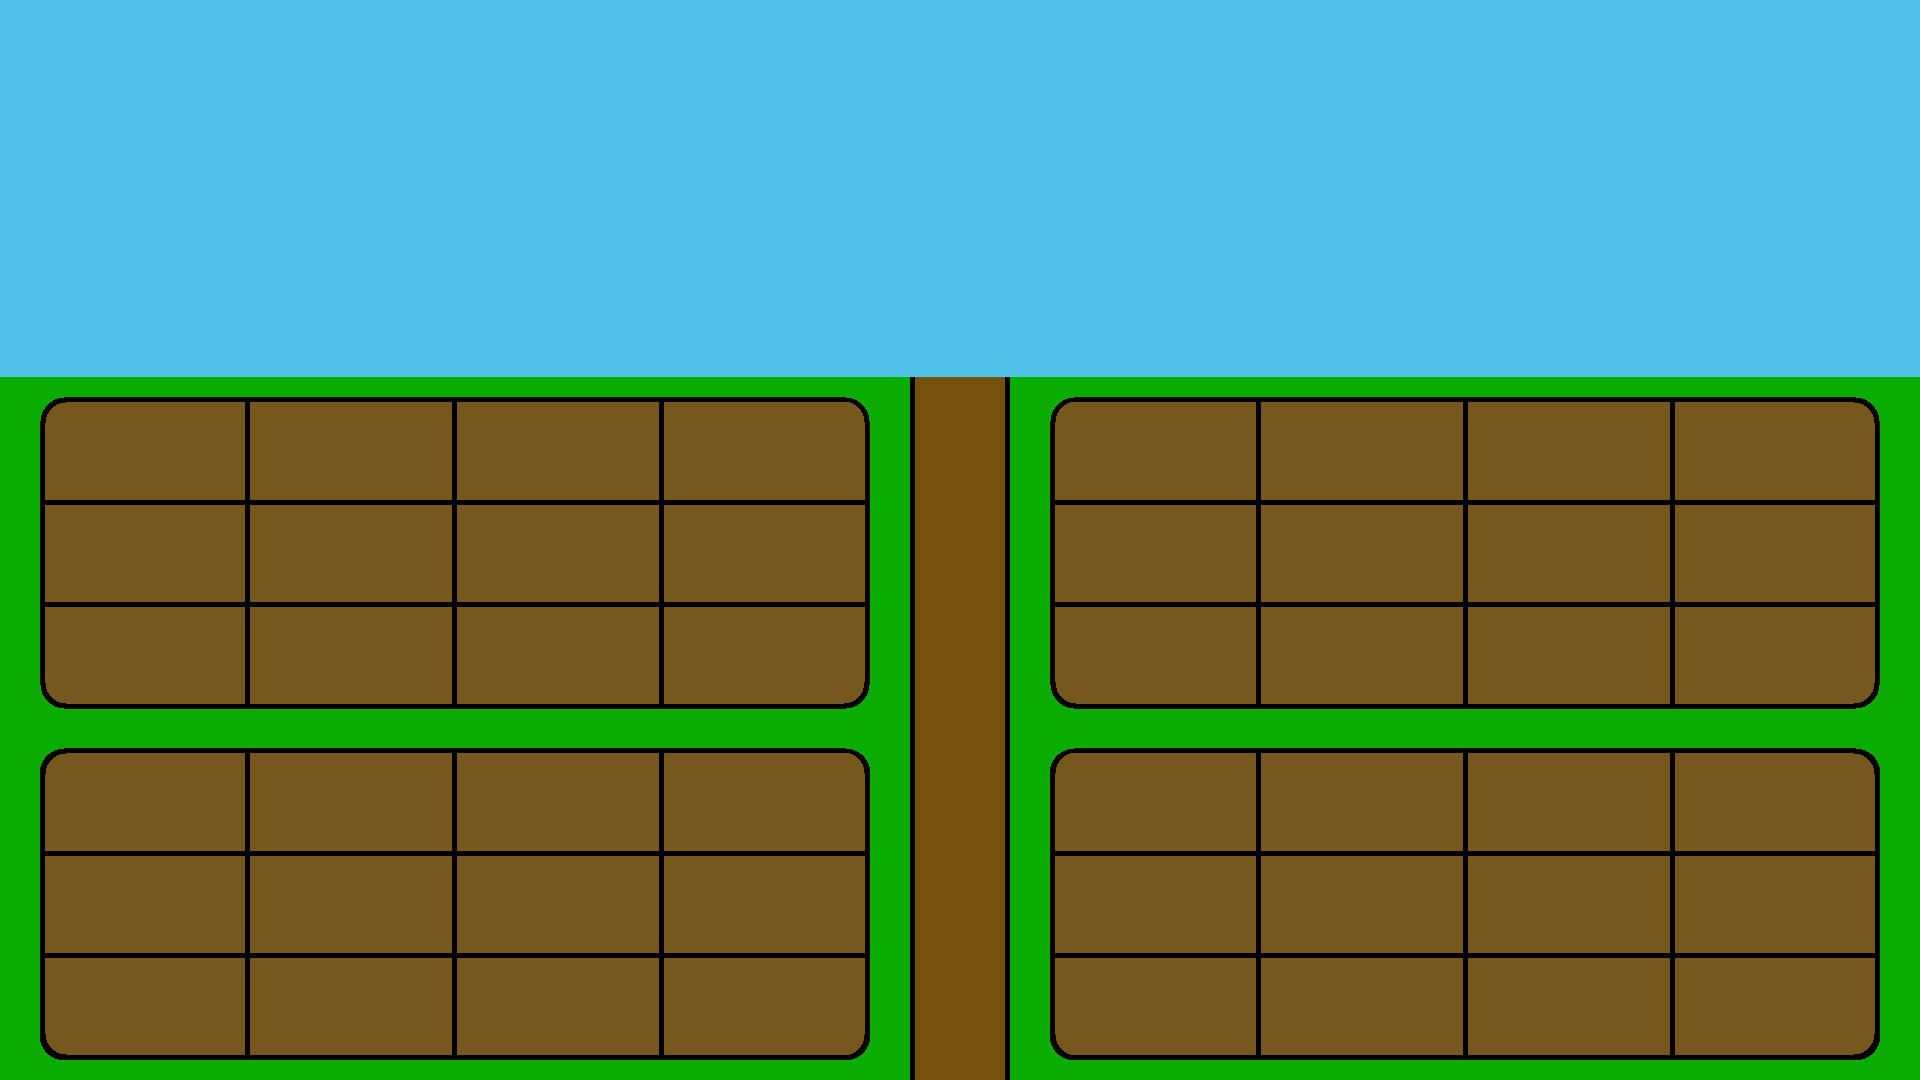
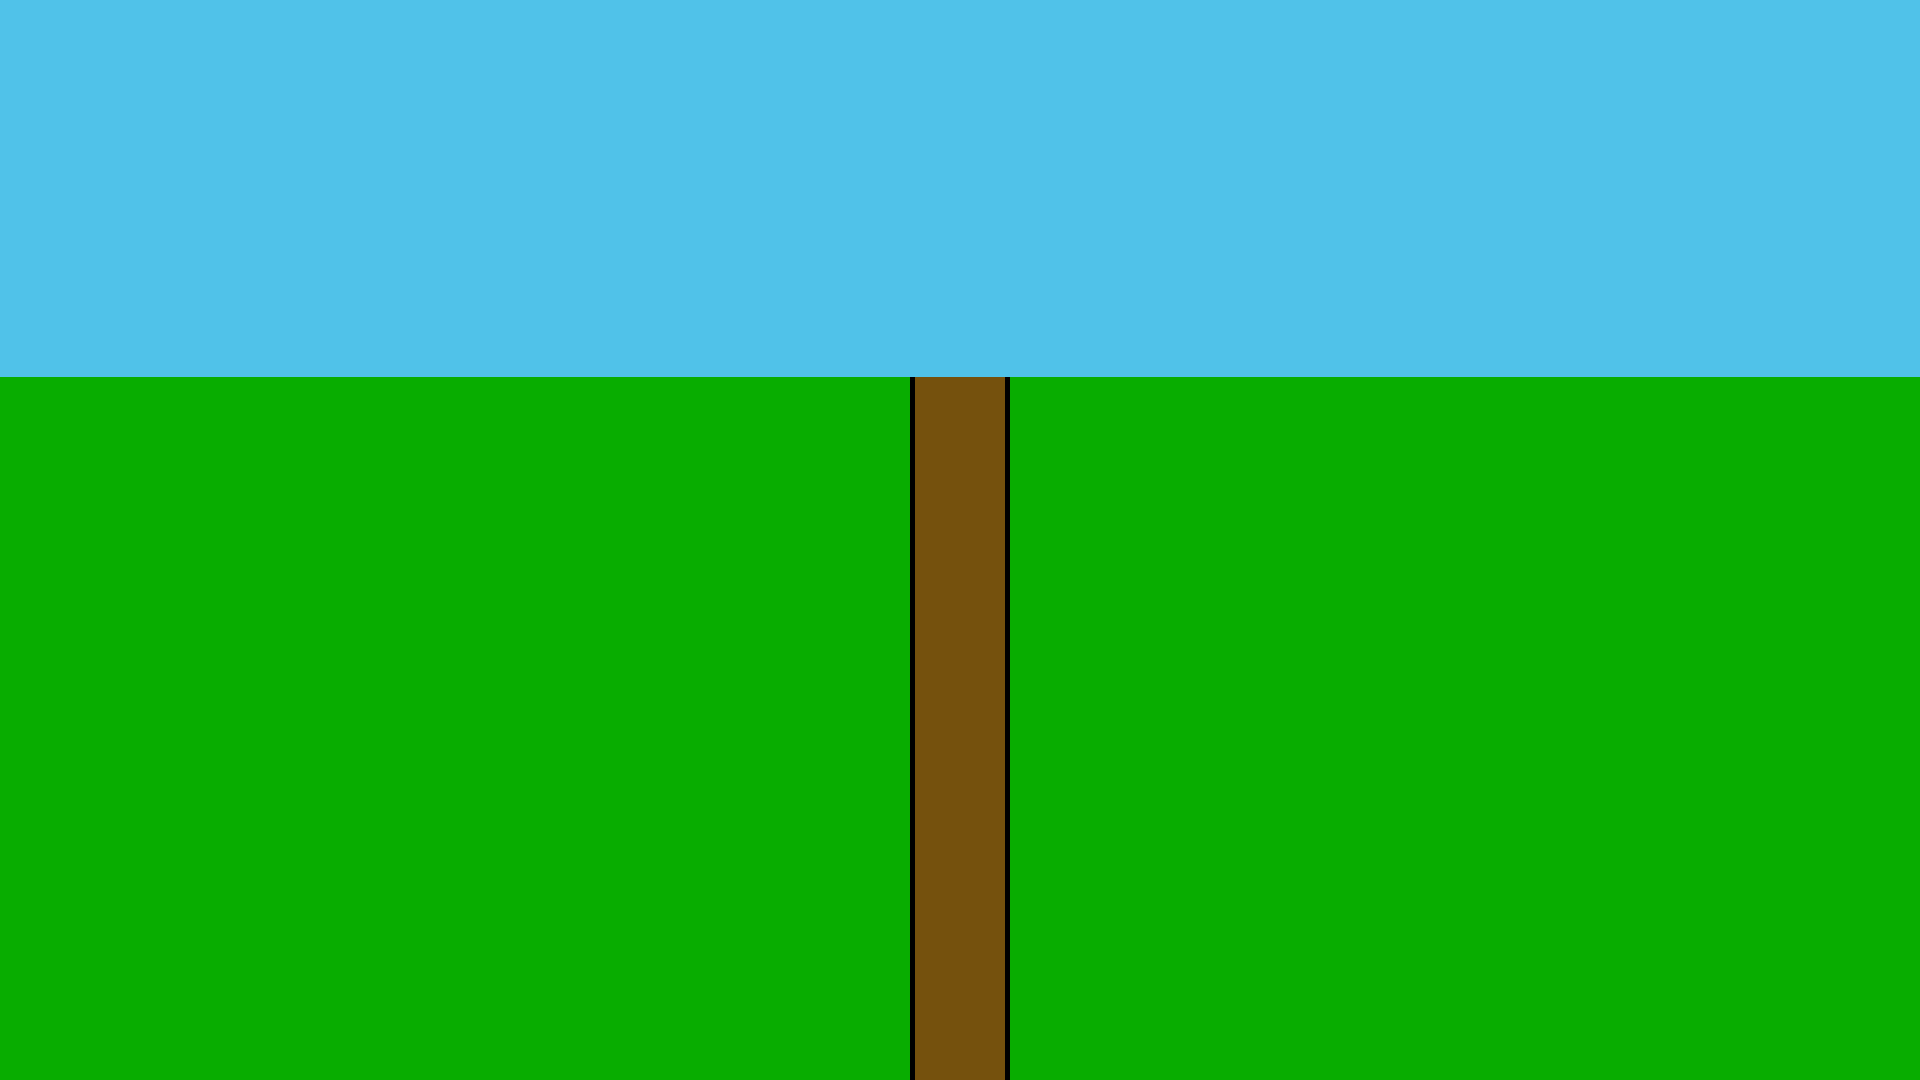
Fix Farm miniatures (redo as buttons)

diff --git a/FarmerGraphics/SceneHandlers.cs b/FarmerGraphics/SceneHandlers.cs
@@ -80,7 +80,7 @@ namespace FarmerGraphics
     [System.Runtime.Versioning.SupportedOSPlatform("windows")]
     public class MainSceneHandler : SceneHandler
     {
-        private List<ProportionalRectangle> farmCoords;
+        private List<SceneSwitchButton> farmMiniatures = new(4);
 
         private SceneSwitchButton ArrowButton;
         private SceneSwitchButton HouseButton;
@@ -92,15 +92,22 @@ namespace FarmerGraphics
             Background = new Bitmap("Assets\\Farmer-even.png");
 
             // Initialize farm interaction areas
-            farmCoords = new List<ProportionalRectangle>();
-            double[] XBounds = { 0.02, 0.45, 0.54, 0.98 };
-            double[] YBounds = { 0.37, 0.66, 0.70, 0.98 };
+            double[] XBounds = { 0.02, 0.455, 0.547, 0.98 };
+            double[] YBounds = { 0.368, 0.66, 0.694, 0.984 };
 
-            farmCoords.Add(new ProportionalRectangle(XBounds[0], XBounds[1], YBounds[0], YBounds[1]));
-            farmCoords.Add(new ProportionalRectangle(XBounds[2], XBounds[3], YBounds[0], YBounds[1]));
-            farmCoords.Add(new ProportionalRectangle(XBounds[0], XBounds[1], YBounds[2], YBounds[3]));
-            farmCoords.Add(new ProportionalRectangle(XBounds[2], XBounds[3], YBounds[2], YBounds[3]));
+            Bitmap farm = new Bitmap("Assets\\Farm-mini.png");
+            farmMiniatures.Add(new SceneSwitchButton(farm, new ProportionalRectangle(XBounds[0], XBounds[1], YBounds[0], YBounds[1]), FarmerLibrary.View.FarmView));
+            farmMiniatures.Add(new SceneSwitchButton(farm, new ProportionalRectangle(XBounds[2], XBounds[3], YBounds[0], YBounds[1]), FarmerLibrary.View.FarmView));
+            farmMiniatures.Add(new SceneSwitchButton(farm, new ProportionalRectangle(XBounds[0], XBounds[1], YBounds[2], YBounds[3]), FarmerLibrary.View.FarmView));
+            farmMiniatures.Add(new SceneSwitchButton(farm, new ProportionalRectangle(XBounds[2], XBounds[3], YBounds[2], YBounds[3]), FarmerLibrary.View.FarmView));
 
+            foreach (var f in farmMiniatures)
+            {
+                f.HighlightOn = false;
+                Clickables.Add(f);
+            }
+
+            // Initialize buttons
             ArrowButton = new SceneSwitchButton(new Bitmap("Assets\\ArrowMain.png"), new ProportionalRectangle(0.48, 0.52, 0.84, 0.99), FarmerLibrary.View.RoadView);
             ArrowButton.EnableStamina();
             Clickables.Add(ArrowButton);
@@ -113,22 +120,6 @@ namespace FarmerGraphics
             CoopButton.HighlightOn = false;
             Clickables.Add(CoopButton);
 
-        }
-
-        public override void HandleClick(double X, double Y, GameState state)
-        {
-            base.HandleClick(X, Y, state);
-
-            // See if inside a farm
-            for (uint i = 0; i < farmCoords.Count; i++)
-            {
-                if (farmCoords[(int)i].InArea(X, Y))
-                {
-                    state.CurrentView = FarmerLibrary.View.FarmView;
-                    state.SetFarm(i);
-                    break;
-                }
-            }
         }
     }
 

diff --git a/FarmerGraphics/Buttons.cs b/FarmerGraphics/Buttons.cs
@@ -127,8 +127,9 @@ namespace FarmerGraphics
         }
     }
 
+
     [System.Runtime.Versioning.SupportedOSPlatform("windows")]
-    public sealed class SceneSwitchButton : GameButton
+    public class SceneSwitchButton : GameButton
     {
         private readonly FarmerLibrary.View Destination;
         private bool takesStamina = false;

diff --git a/FarmerGraphics/Graphics.cs b/FarmerGraphics/Graphics.cs
@@ -205,3 +205,5 @@ namespace FarmerGraphics
 // Enumerable farms
 // Think about just having a list of bought stuff (not a dict)
 // Disable planting when tool active
+// Buying feed etc.
+// Challenge lines, more chicken
